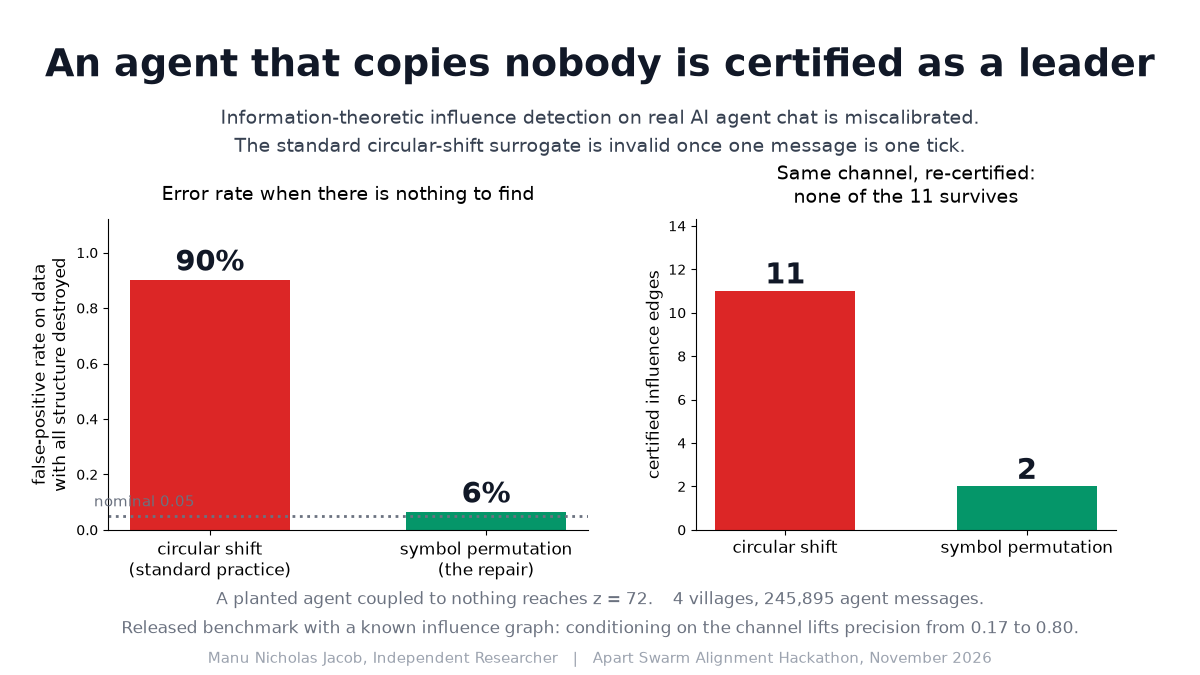
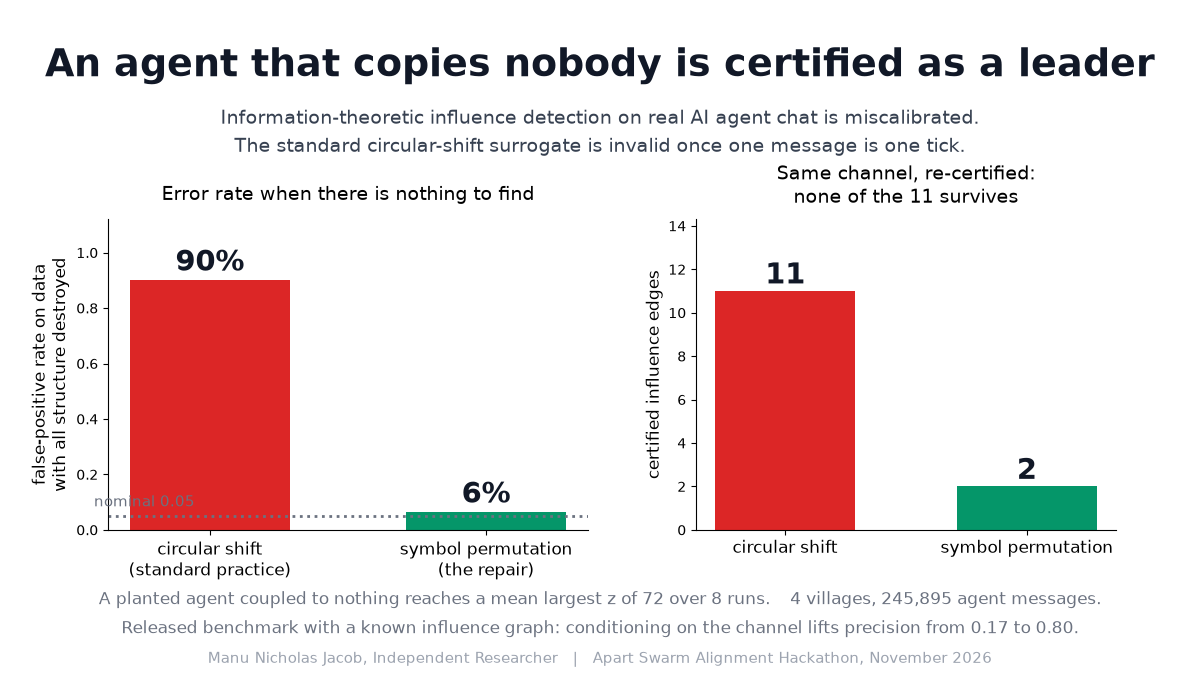
Stop the project image claiming a mean of maxima as a single z
project_image.py built its headline caption from `worst_z = max(mean_max_z)` and printed "A planted
agent coupled to nothing reaches z = 72". That reads as one agent hitting 72. The statistic is the
mean, across eight seeds, of each run's largest z, and the report says so plainly: "the mean largest
z rising from 5.6 to 12.3, 21.7, 38.3 and 71.7". The caption now reads "reaches a mean largest z of
72 over 8 runs", and the variable is named peak_mean_max_z so the next reader cannot repeat the
conflation. The same conflation reached an outreach draft once already.

This matters more here than it would elsewhere. The image is the first thing anyone sees on the
submission page, and the paper's own argument is that miscalibrated statistics get overstated.

project_image.py also hardcoded D = C:\dev\swarm-sprint, the exact defect fixed in verify_v2.py: run
from a clone and it would silently write the image from another working copy's numbers. It now
resolves the path from __file__.

Everything else on the image was already computed rather than typed, and re-checked here. 245,895 is
the sum of the four villages in the report's Data table (205,726 + 35,483 + 3,848 + 838), and
precision 0.17 to 0.80 is the current pair, not the retracted 0.17 to 1.00.

verify_all.py now runs the retired-claim and ASCII guards over swarm-bench as well. That repository
is linked from the public submission page, so a judge reads its README, and nothing guarded it until
[…]

Changed region(s): [[0.0925, 0.8711, 0.925, 0.9022]]

diff --git a/project_image.py b/project_image.py
@@ -5,7 +5,10 @@ import matplotlib
 matplotlib.use("Agg")
 import matplotlib.pyplot as plt
 
-D = r"C:\dev\swarm-sprint"
+# Resolved from this file, never hardcoded. report/verify_v2.py pinned an absolute path and so
+# kept reporting on one working copy no matter where it was run from; a generator with the same
+# bug silently writes the image from someone else's numbers.
+D = os.path.dirname(os.path.abspath(__file__))
 cal = json.load(open(os.path.join(D, "facts_calib.json"), encoding="utf-8"))
 # 300 replicates, the figure the report headlines. facts_calib2.json is the 30-replicate pilot
 # (0.10) and must not be used here: the image would disagree with the paper.
@@ -26,7 +29,12 @@ shift_fwer = cal["rows"]["shift"]["familywise_error_rate"]
 perm_fwer = calbig["fwer"]
 hb = fin["headline_by_null"]
 n_shift, n_perm = hb["shift"]["topic"]["n_edges"], hb["permute"]["topic"]["n_edges"]
-worst_z = max(r["mean_max_z"] for r in sp["rows"])
+# The largest of the per-volume MEANS of each run's largest z, not a single observed z. The name
+# matters: this was called worst_z and printed as "reaches z = 72", which reads as one agent
+# hitting 72. The report says "the mean largest z rising ... to 71.7" and the caption must not
+# claim more than that. The same conflation got into an outreach draft once already.
+peak_mean_max_z = max(r["mean_max_z"] for r in sp["rows"])
+n_seeds = sp["seeds"]
 
 plt.rcParams.update({"font.family": "DejaVu Sans"})
 fig = plt.figure(figsize=(12, 6.75), dpi=100)
@@ -68,7 +76,8 @@ for s in ("top", "right"):
     bx.spines[s].set_visible(False)
 
 fig.text(0.5, 0.105,
-         f"A planted agent coupled to nothing reaches z = {worst_z:.0f}.    "
+         f"A planted agent coupled to nothing reaches a mean largest z of "
+         f"{peak_mean_max_z:.0f} over {n_seeds} runs.    "
          f"{n_villages} villages, {total_msgs:,} agent messages.",
          ha="center", fontsize=12, color="#6B7280")
 fig.text(0.5, 0.062,

diff --git a/verify_all.py b/verify_all.py
@@ -202,8 +202,15 @@ def main() -> int:
     if not ok:
         failed.append(("arxiv source in sync", detail))
 
-    # These two run over the repository itself, always, plus the pack when one was given.
-    roots = [HERE] + ([pack_root] if pack_root is not None and pack_root.exists() else [])
+    # These two run over this repository, the benchmark repository, and the pack when one was
+    # given. The benchmark was added on 8 Nov 2026: it is linked from the public submission page,
+    # so a judge reads its README, and until then nothing guarded it. That is the same mistake as
+    # guarding the report but not the README, one repository further out.
+    roots = [HERE]
+    if bench.exists():
+        roots.append(bench)
+    if pack_root is not None and pack_root.exists():
+        roots.append(pack_root)
     for label, fn in (("retired claims in docs", check_retired), ("ascii and dashes", check_ascii)):
         oks, details = [], []
         for r in roots:

diff --git a/paper/02_related_work.md b/paper/02_related_work.md
@@ -187,15 +187,29 @@ checker that matches on title will catch none of them.
 repository's checks require pure ASCII in markdown, which exists so that nothing with a stray
 character reaches an arXiv abstract field. Restore the umlaut in the LaTeX, where \"{u} handles it.
 
-## Still to verify before submission
+## Citation checks, resolved 8 Nov 2026
 
-- **Greenblatt et al. venue.** Widely cited as ICML 2024, but the arXiv listing links an OpenReview
-  version without confirming acceptance. Check PMLR v235 and cite the preprint if it is not there.
-- **Schreiber (2000) end page.** The APS page shows start page 461 only. The 461-464 range is the
-  standard citation and almost certainly right, but confirm from the PDF.
-- **Venkatesh et al.'s reported metrics.** The 0.942 AUROC and 0.792 EDR@5 figures circulating for
-  CASPIAN come from a third-party summary, not from the paper. Do not quote them without checking
-  Tables 1 and 2. The claims used above are from the method description, which is safer ground.
-- **Yuan and Shou's mechanism.** The exact way ordinary time-shift surrogates fail is in their full
-  text, which was not readable. The validity claim and the stationarity condition are from the
-  abstract and are safe; the mechanism is not yet.
+The whole bibliography was also run through a three-database checker (CrossRef, Semantic Scholar,
+OpenAlex). Its one "not found" is the AI Village **dataset** entry, which is correct behaviour:
+datasets are not indexed as publications. Everything else resolved with a 100% title match.
+
+- **Greenblatt et al. venue. Resolved: it is in the proceedings.** PMLR 235:16295-16336,
+  Proceedings of the 41st International Conference on Machine Learning, 2024, read off the PMLR
+  volume page itself rather than a summary, with the four authors in the order used here. `refs.bib`
+  now carries the proceedings entry and keeps the arXiv eprint alongside it. **Note that the
+  submitted sprint report cites the preprint**, which was the safe form at the time and is not
+  wrong; only the paper's bibliography has been upgraded.
+- **Schreiber (2000) end page. Resolved: 461-464 is correct.** The APS landing page prints
+  "461 -" with no end page, which is why this was open. CrossRef's record for
+  10.1103/PhysRevLett.85.461, which is the registrant's own metadata, gives `page: 461-464`,
+  volume 85, issue 2, 10 July 2000. `refs.bib` already had it right.
+- **Venkatesh et al.'s reported metrics. Resolved by not using them.** A grep over the paper, the
+  report and the README confirms the 0.942 AUROC and 0.792 EDR@5 figures appear nowhere outside
+  this warning. They came from a third-party summary rather than the paper, and the claims made
+  above rest on the method description instead. Keep it that way unless someone reads Tables 1
+  and 2.
+- **Yuan and Shou's mechanism. Standing constraint, not an open task.** Section 2.1 claims only
+  exact validity for a truncated time-shift procedure given one stationary series, and that the
+  authors argue this is near-minimal among nonparametric tests. Both are from the abstract. The
+  full text was not readable, so **do not add any account of how ordinary time-shift nulls fail in
+  their setting** without reading it.
